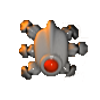
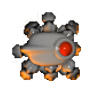
buried robot rotation added. drawing that also done. buried robot image rotated 90 degree

Changed region(s): [[0.12, 0.12, 0.9, 0.81]]

diff --git a/src/game/elements/BuriedRobot.java b/src/game/elements/BuriedRobot.java
@@ -11,6 +11,7 @@ public class BuriedRobot extends GameObject
     private double minDistance;
     private boolean activated;
     private Tank target;
+    private double angle;
 
     //constructor
     public BuriedRobot(){
@@ -22,6 +23,7 @@ public class BuriedRobot extends GameObject
         super(x, y, ObjectId.BuriedRobot);
         minDistance = 400;
         activated = false;
+        angle = 0;
         setVelX(5);
         setVelY(5);
     }
@@ -36,6 +38,7 @@ public class BuriedRobot extends GameObject
      */
     public void tick(Objects objects) {
         determineTarget(objects);
+        setAngle(calculateAngle(this,target));
         if (activated) { // pass player tank as target
             move(target);
         }
@@ -58,6 +61,21 @@ public class BuriedRobot extends GameObject
         else { //in single player
             target = objects.getPlayers().get(0);
         }
+    }
+
+    /**
+     * calculate angle between 2 objects.
+     * @param object1 starting point
+     * @param object2 second point
+     * @return
+     */
+    private static double calculateAngle(GameObject object1, GameObject object2){
+        double angle = Math.atan( ( object2.getY() - object1.getY() ) / (object2.getX() - object1.getX()));
+//        angle += Math.PI / 2;
+        if(object2.getX() < object1.getX()){
+            angle += Math.PI;
+        }
+        return angle;
     }
 
     /**
@@ -114,5 +132,14 @@ public class BuriedRobot extends GameObject
     public void setActivated(boolean state)
     {
         activated = state;
+    }
+
+    public void setAngle(double angle) {
+        this.angle = angle;
+    }
+
+    public double getAngle() {
+
+        return angle;
     }
 }

diff --git a/src/game/template/bufferstrategy/GameFrame.java b/src/game/template/bufferstrategy/GameFrame.java
@@ -224,7 +224,14 @@ public class GameFrame extends JFrame
         {
             if (robots.get(i).isActivated())
             {
+                AffineTransform gunTrans = g2d.getTransform();
+                gunTrans.rotate(state.objects.getRobots().get(i).getAngle(),
+                        state.objects.getRobots().get(i).getX() + 50 ,
+                        state.objects.getRobots().get(i).getY() + 50 );
+
+                g2d.setTransform(gunTrans);
                 g2d.drawImage(Utility.buriedRobot, null, (int) robots.get(i).getX(), (int) robots.get(i).getY());
+                g2d.setTransform(gameTransform);
             }
         }
 //        g2d.translate(state.camera.getX(), state.camera.getY());

diff --git a/src/game/elements/Turret.java b/src/game/elements/Turret.java
@@ -69,7 +69,6 @@ public class Turret extends GameObject implements Serializable
         }
         if (checkArea() == true)
         {
-            System.out.println(calculateAngle(target,this));
             setGunAngle(calculateAngle(this,target)); // angle between turret and tank
             if (gun.readyForShoot())
             {
